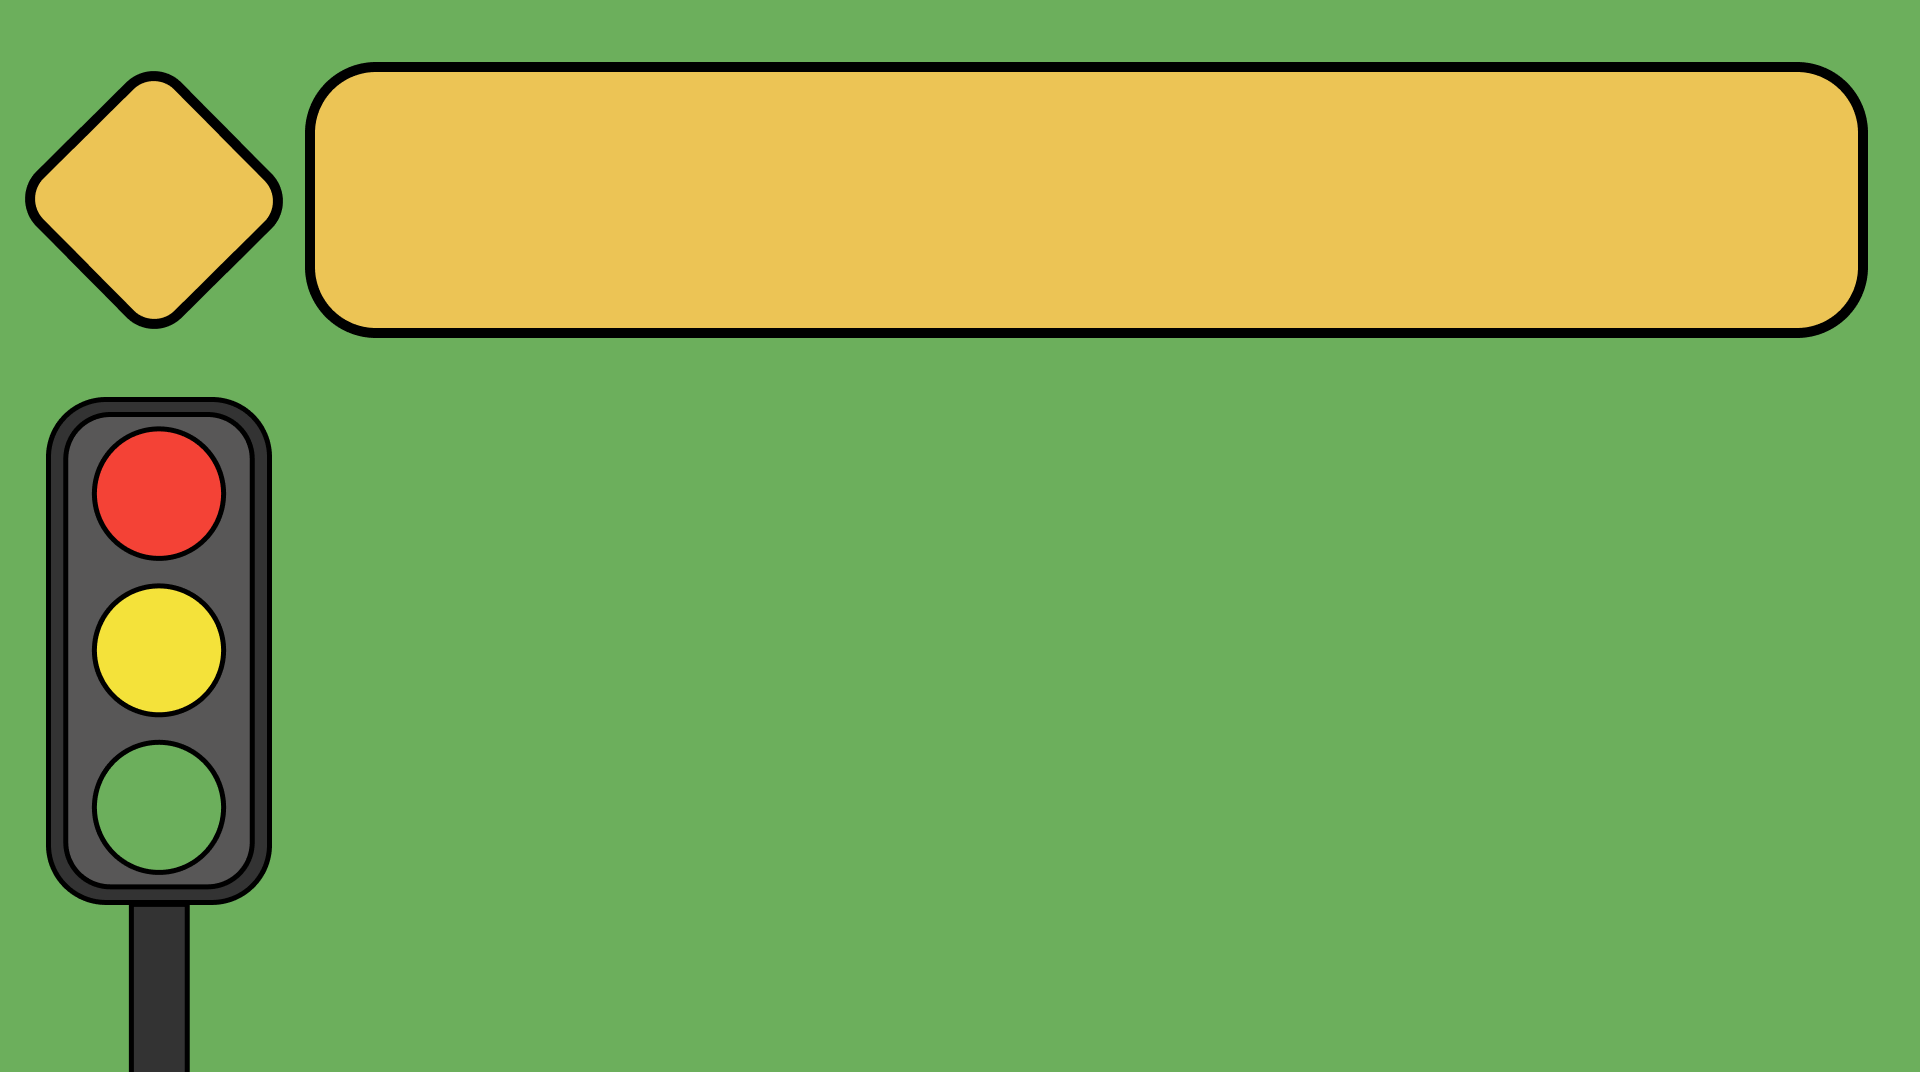
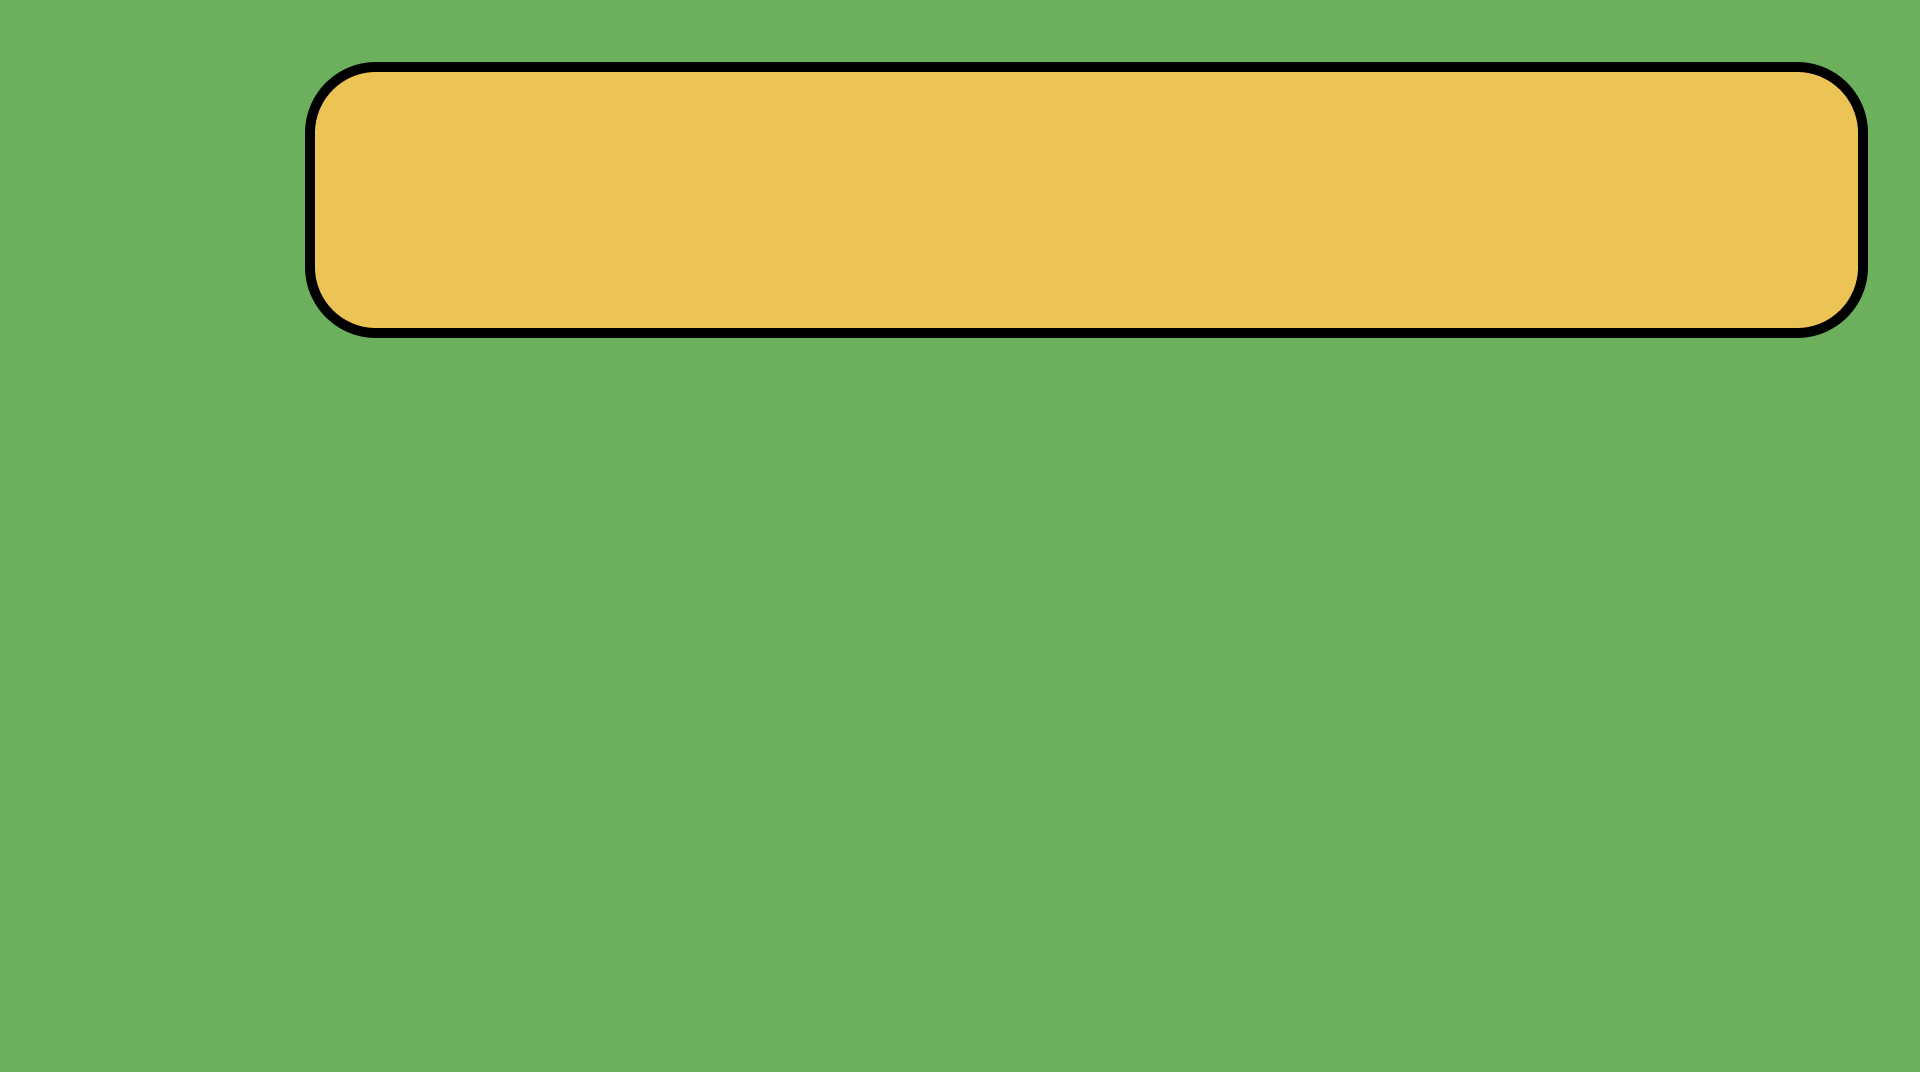
fix: correcao da responsabilidade da tela do quiz

Changed region(s): [[0.0, 0.3694, 0.1562, 1.0], [0.0, 0.0616, 0.1562, 0.3078]]

diff --git a/src/components/features/PadraoCap4-2/TelaQuizStyled.js b/src/components/features/PadraoCap4-2/TelaQuizStyled.js
@@ -1,6 +1,8 @@
 import styled, { css } from "styled-components";
 import QuizBackground from "../../../assets/Capitulo4Img/QuizBackground.png";
 import SinalLaranja from "../../../assets/Capitulo4Img/SinalLaranja.png";
+import SinalAmarelo from "../../../assets/Capitulo4Img/SinalAmarelo.png";
+import Semaforo from "../../../assets/Capitulo4Img/Semaforo.png";
 
 const COLORS = {
   red: "#ff0000",
@@ -20,15 +22,32 @@ export const QuizContainer = styled.div`
   color: ${COLORS.text};
 `;
 
+export const SemaforoComponente = styled.div`
+  position: absolute;
+  top: 40vh;
+  left: 3%;
+  width: 150px;
+  height: 60vh;
+  background-image: url(${Semaforo});
+  background-size: contain;
+  background-repeat: no-repeat;
+  background-position: center top;
+  pointer-events: none;
+`;
+
 export const PlacaNumero = styled.div`
   position: absolute;
-  top: 15%;
-  left: 5%;
+  top: 10vh;
+  left: 3%;
   display: flex;
   align-items: center;
   justify-content: center;
-  width: 100px;
-  height: 100px;
+  background-image: url(${SinalAmarelo});
+  background-size: contain;
+  background-repeat: no-repeat;
+  background-position: center;
+  width: 170px;
+  height: 170px;
   font-size: 80px;
   font-weight: bold;
 `;
@@ -46,33 +65,30 @@ export const ContextoTexto = styled.p`
 `;
 
 export const LightButton = styled.button`
-  width: 97px;
-  height: 97px;
+  width: 88px;
+  height: 88px;
   border-radius: 80%;
   border: 2px solid transparent;
   background-color: transparent;
   cursor: pointer;
   position: absolute;
-  z-index: 10;
   transition: border-color 0.2s;
+  left: 5%;
 
   ${(props) =>
     props.$color === "red" &&
     css`
-      top: 47%;
-      left: 5%;
+      top: 42vh;
     `}
   ${(props) =>
     props.$color === "yellow" &&
     css`
-      top: 65%;
-      left: 5%;
+      top: 56vh;
     `}
     ${(props) =>
     props.$color === "green" &&
     css`
-      top: 82%;
-      left: 5%;
+      top: 70vh;
     `}
 `;
 
@@ -87,17 +103,17 @@ export const DecisaoTexto = styled.p`
   ${(props) =>
     props.$variant === "red" &&
     css`
-      top: 45%;
+      top: 45vh;
     `}
   ${(props) =>
     props.$variant === "yellow" &&
     css`
-      top: 63%;
+      top: 63vh;
     `}
   ${(props) =>
     props.$variant === "green" &&
     css`
-      top: 81%;
+      top: 81vh;
     `}
 `;
 

diff --git a/src/components/features/PadraoCap4-2/TelaQuiz.jsx b/src/components/features/PadraoCap4-2/TelaQuiz.jsx
@@ -9,6 +9,7 @@ import {
   LightButton,
   DecisaoTexto,
   OverlayMessage,
+  SemaforoComponente,
 } from "./TelaQuizStyled.js";
 
 const QuizScreen = ({ pageNumber, contextText, correctColor, pistaText, onAdvance, ...rest }) => {
@@ -41,6 +42,7 @@ const QuizScreen = ({ pageNumber, contextText, correctColor, pistaText, onAdvanc
 
   return (
     <QuizContainer {...rest}>
+      <SemaforoComponente />
       <PlacaNumero>{pageNumber}</PlacaNumero>
 
       <ContextoTexto>{contextText}</ContextoTexto>
